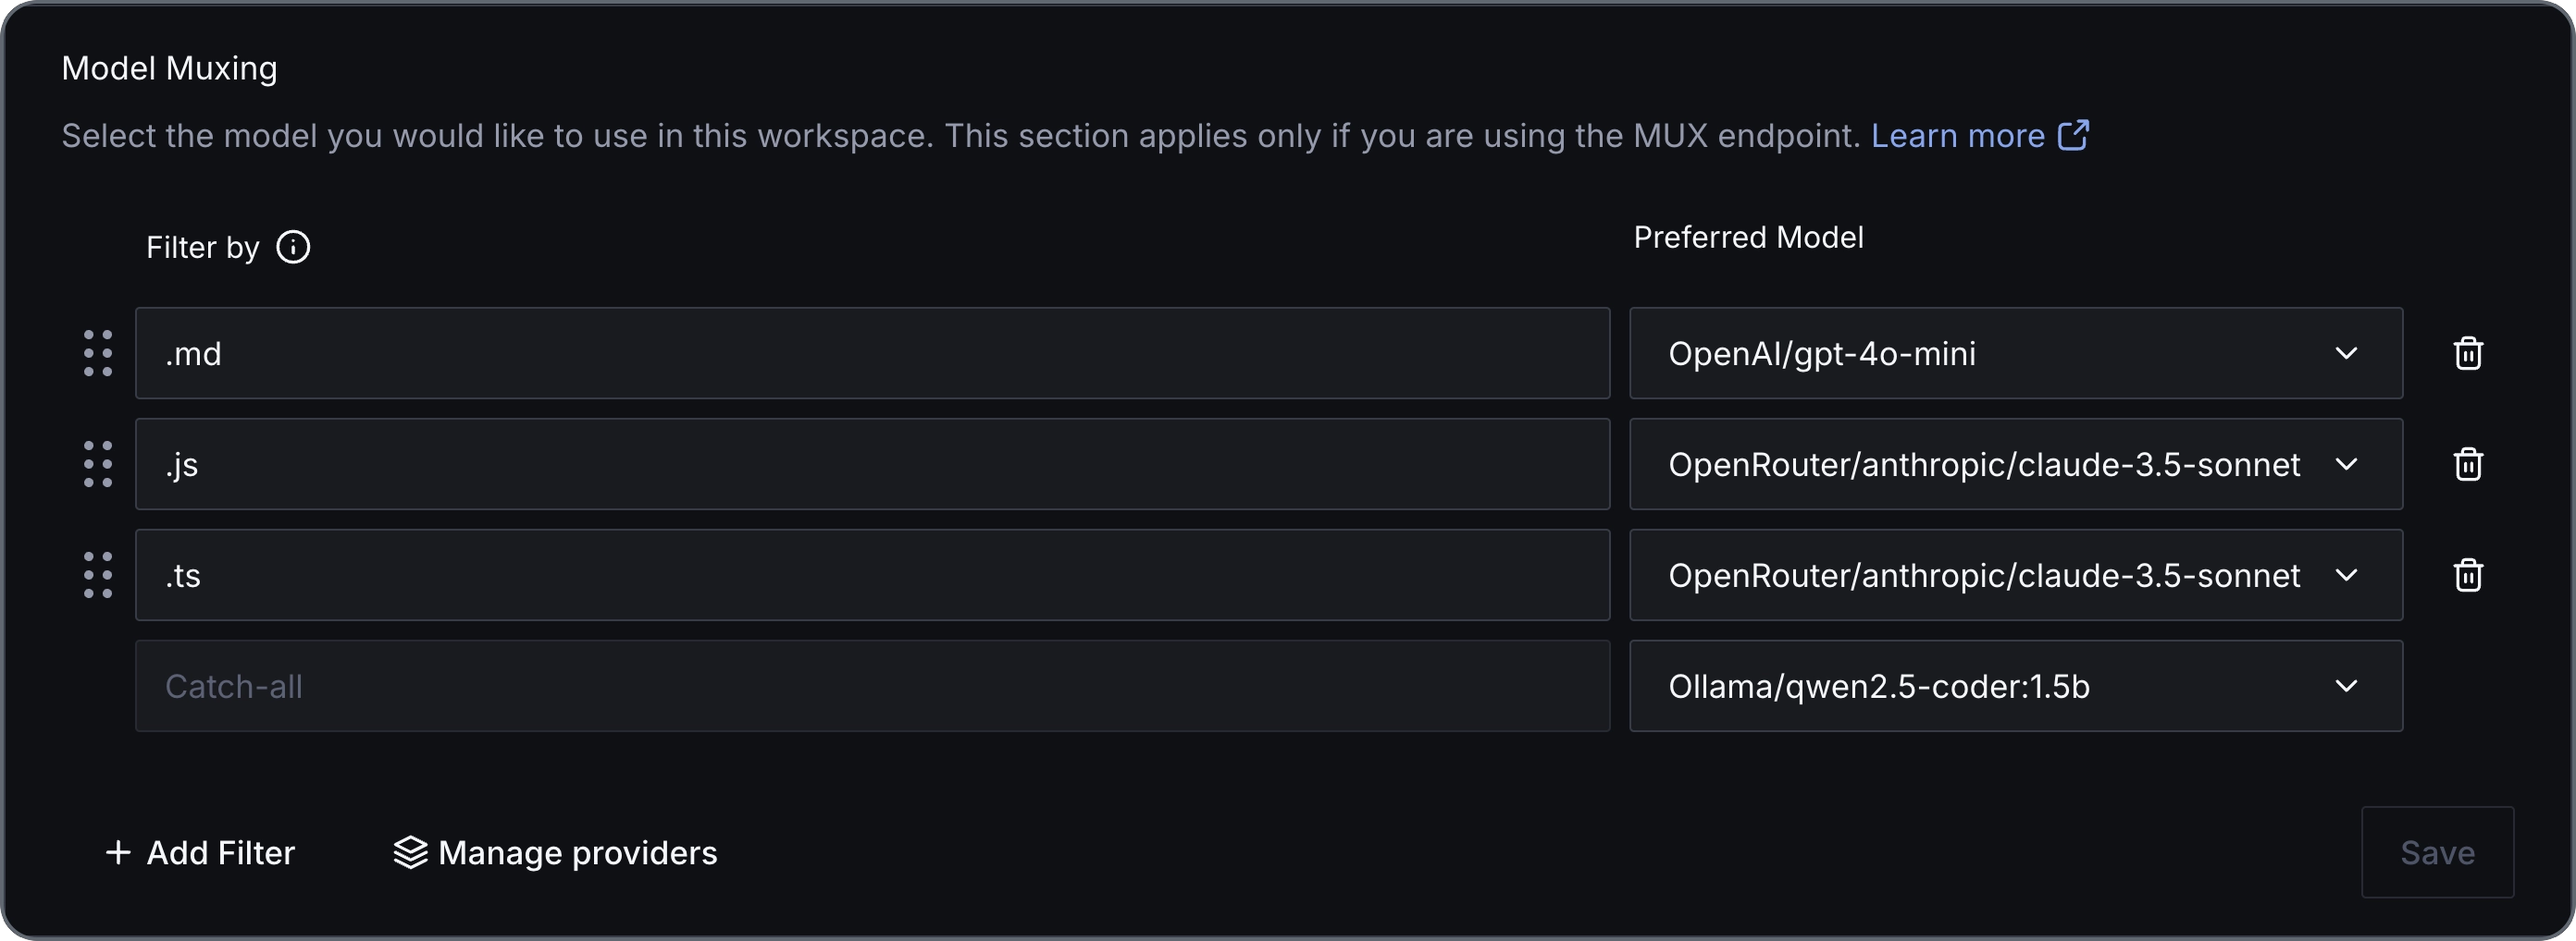
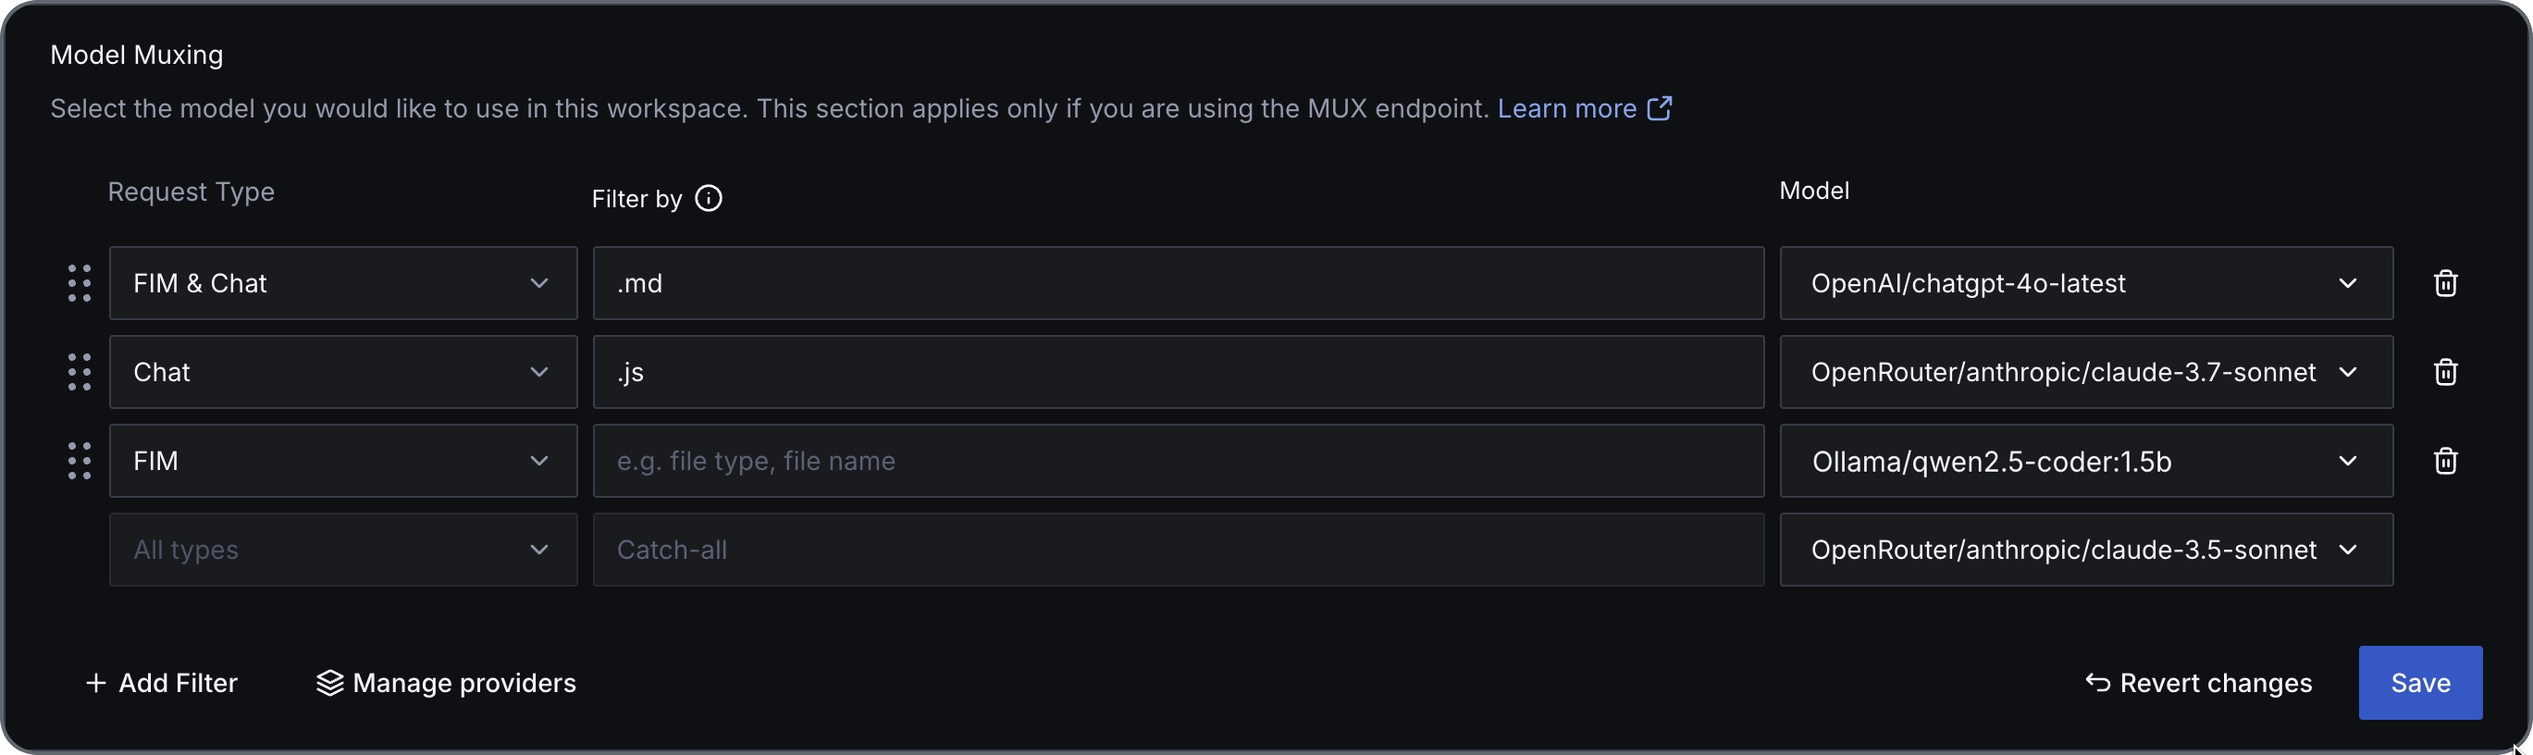
Add request type muxing (#96)
Add request type filtering to muxing docs and update file matching behavior

diff --git a/docs/about/changelog.md b/docs/about/changelog.md
@@ -13,6 +13,10 @@ Major features and changes are noted here. To review all updates, see the
 
 Related: [Upgrade CodeGate](../how-to/install.md#upgrade-codegate)
 
+- **Request type muxing** - 26 Feb, 2025\
+  Workspace model muxing now supports filtering based on chat and FIM request
+  types. Check the [model muxing docs](../features/muxing.mdx) to learn more.
+
 - **New integration: Open Interpreter** - 20 Feb, 2025\
   CodeGate v0.1.24 adds support for the
   [avante.nvim](https://github.com/yetone/avante.nvim) plugin for Neovim with
